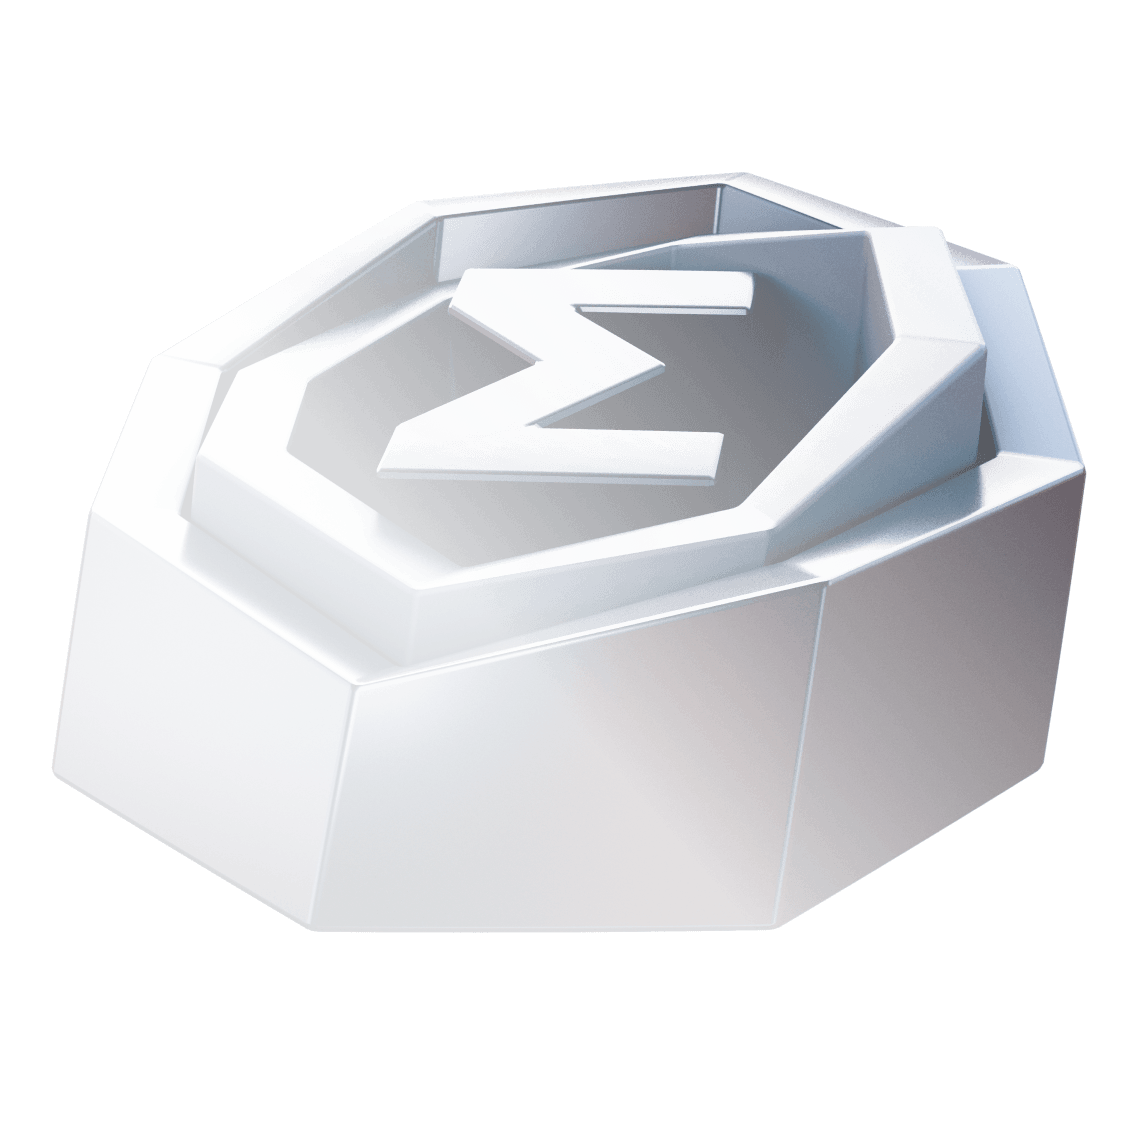
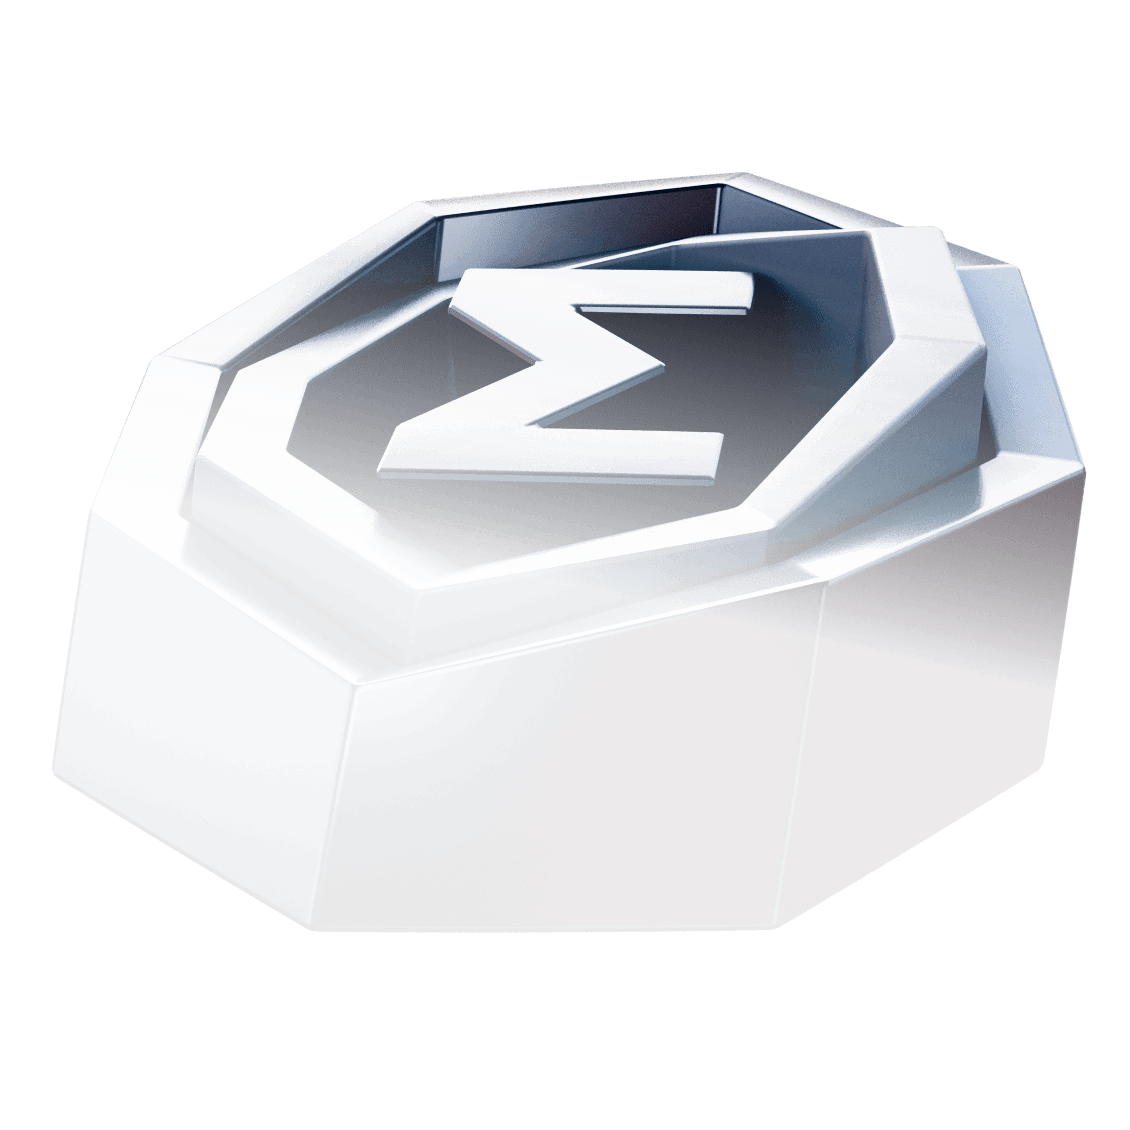
text and gradient fixes

diff --git a/components/community/Sigmanauts.tsx b/components/community/Sigmanauts.tsx
@@ -36,10 +36,10 @@ export default function Sigmanauts() {
         </p>
         <p className="text-[#989898] dark:text-[#989898] mb-6">
           <FormattedMessage
-            defaultMessage="Apply for the Sigmanaut Training Programme to help shape and grow Ergo growing forward.
+            defaultMessage="Apply for the Sigmanaut Training Programme to help shape and grow Ergo.
             {br}{br}
 
-        Let's try to create grassroots finance.
+        Let's create grassroots finance.
         "
             id="components.Sigmanauts.text"
             values={{ br: <br />  }}

diff --git a/components/discover/ErgoExplorer.tsx b/components/discover/ErgoExplorer.tsx
@@ -6,7 +6,7 @@ export default function Explore() {
   const intl = useIntl();
   const button1Text = intl.formatMessage({
     id: "components.ergoExplorer.button1",
-    defaultMessage: "ERGO EXPLORER",
+    defaultMessage: "Ergo Explorer",
   });
 
   const button2Text = intl.formatMessage({

diff --git a/components/community/CommunityCardsFeed.tsx b/components/community/CommunityCardsFeed.tsx
@@ -27,7 +27,7 @@ const cards = [
     ),
     text: (
       <FormattedMessageFixed
-        defaultMessage="Subscribe to the communities on Reddit."
+        defaultMessage="Subscribe to our subreddits."
         id="components.communityHero.Reddit.text"
       />
     ),
